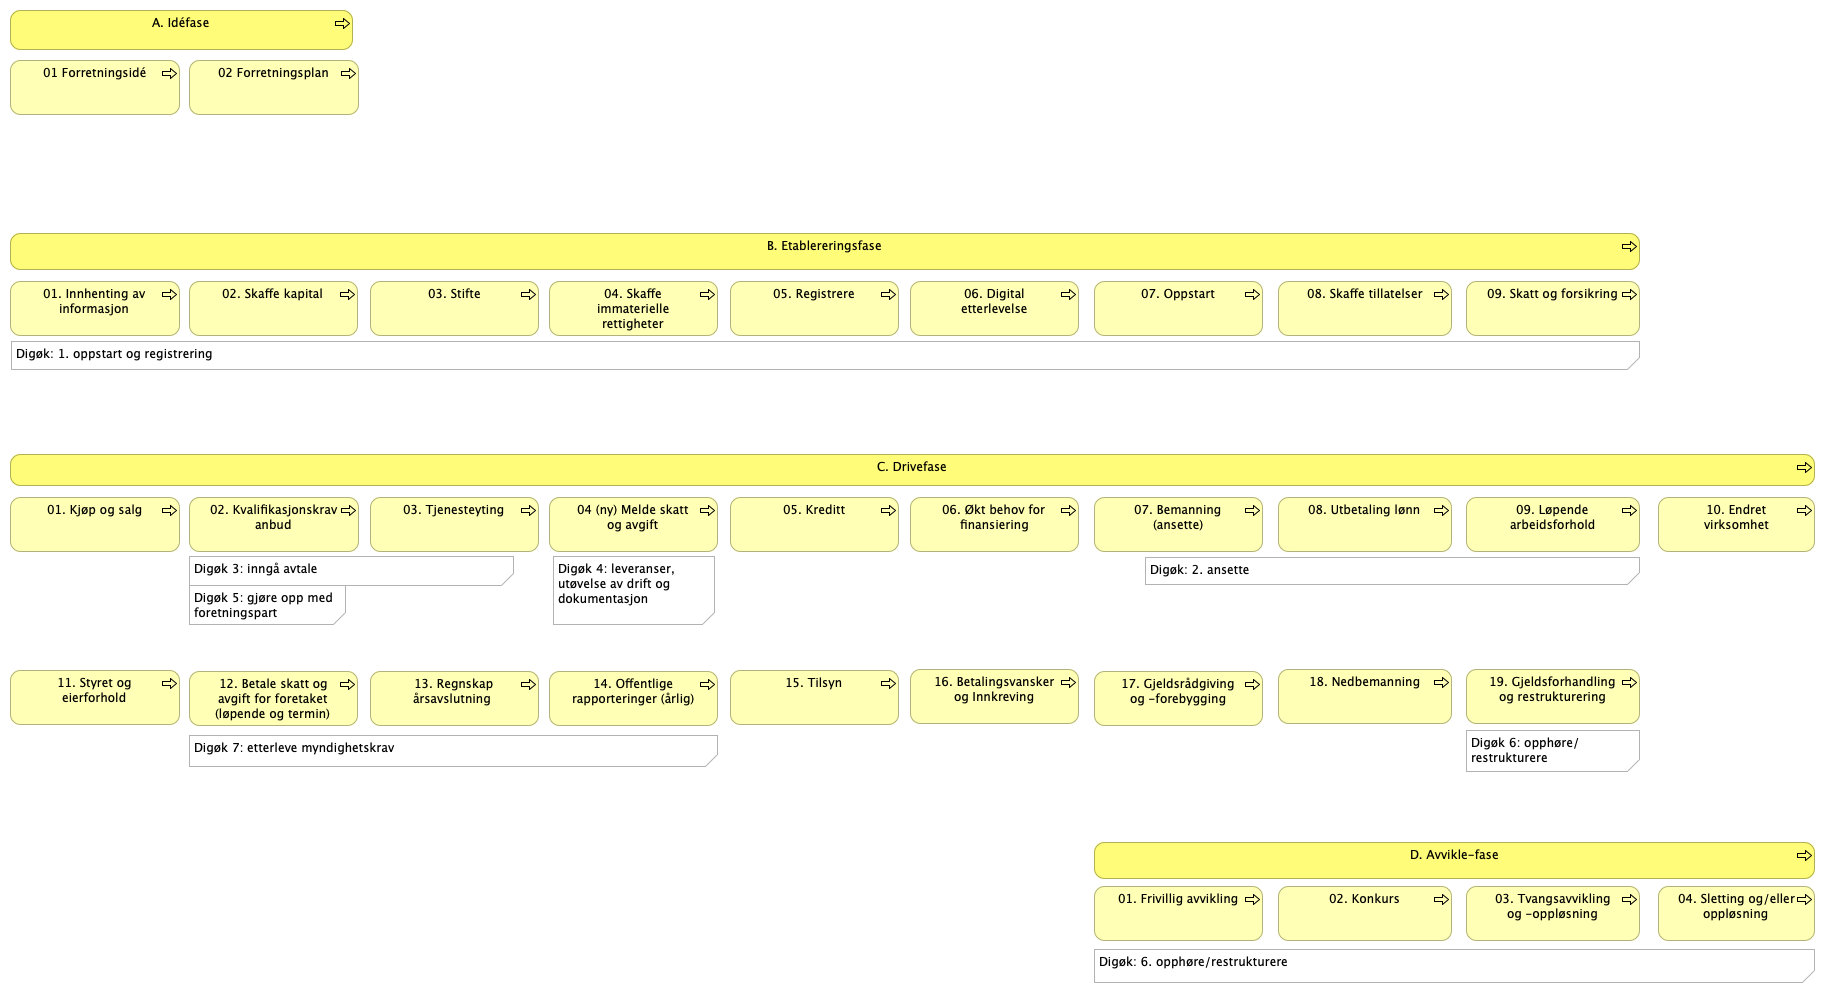
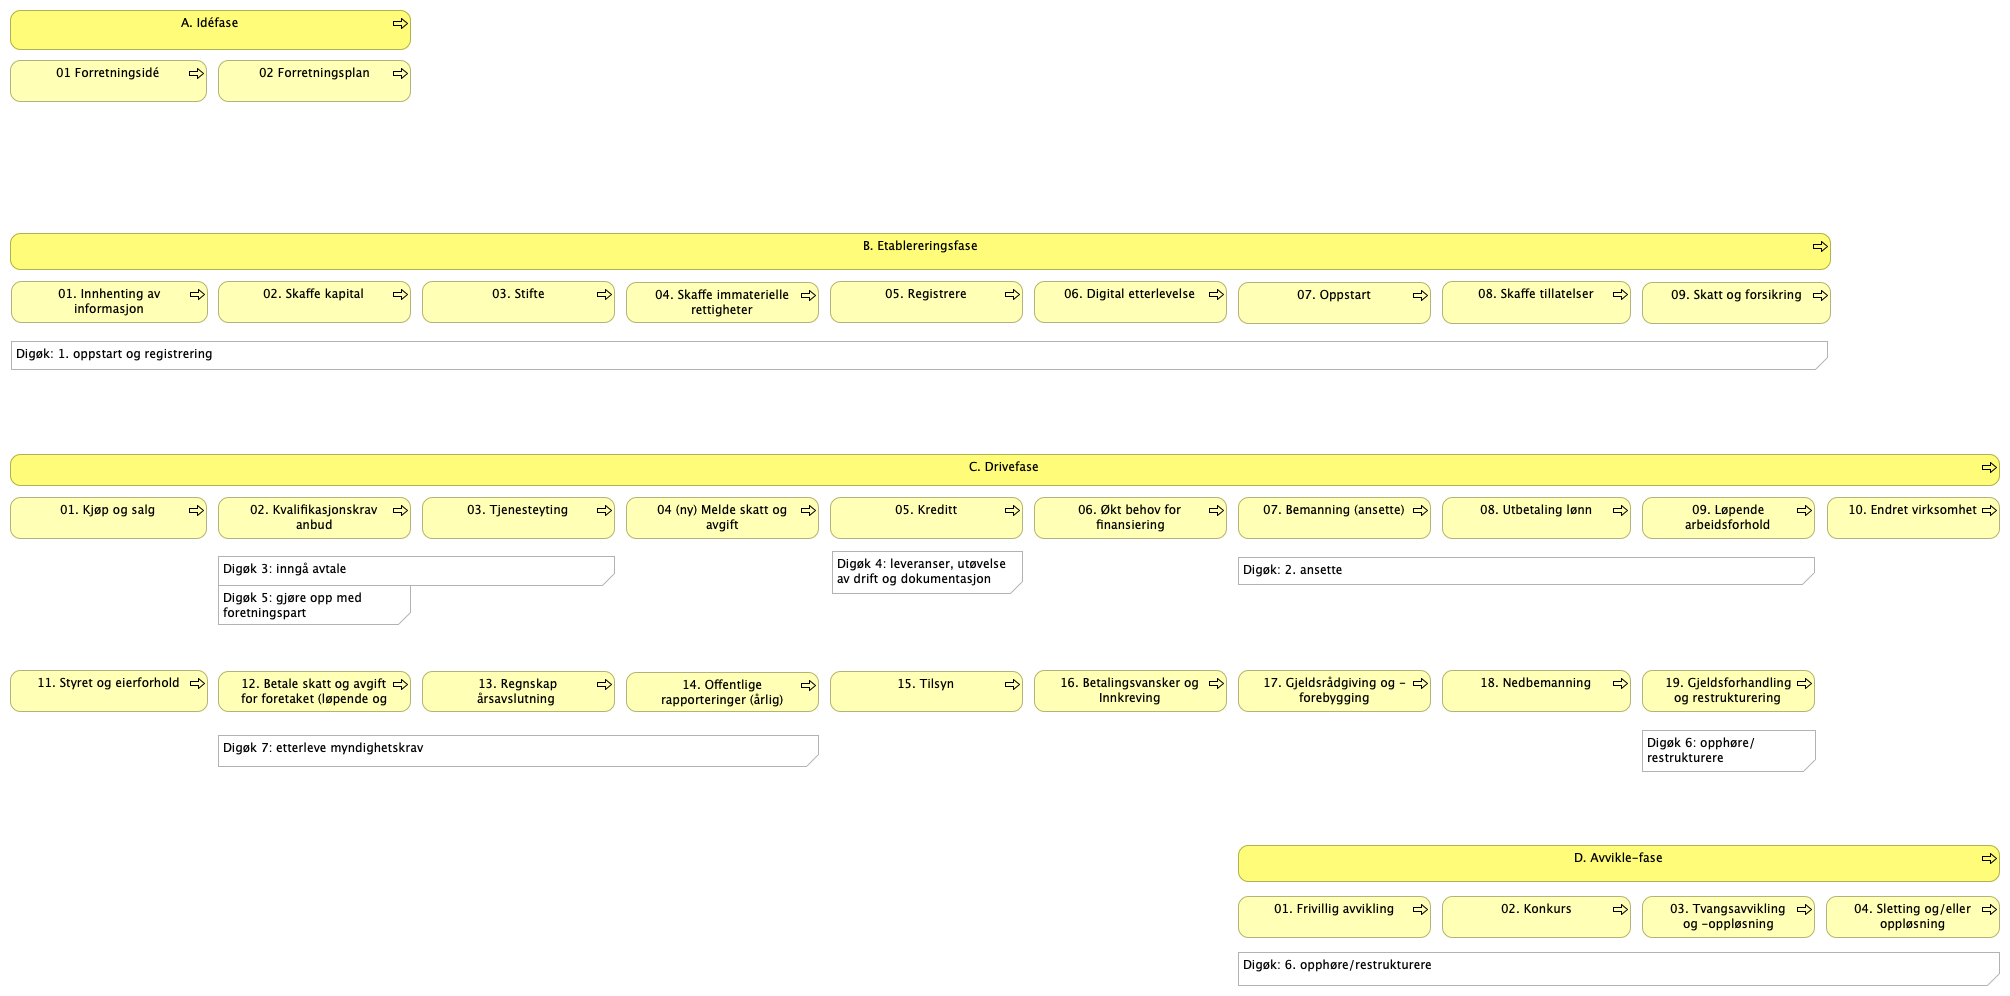
innspill fra starte og drive i Narvik

diff --git a/docs/id-0322705d/views/52bfe295-b97e-4c5e-b8cf-83361cda8c47.html b/docs/id-0322705d/views/52bfe295-b97e-4c5e-b8cf-83361cda8c47.html
@@ -27,44 +27,44 @@
 		<div class="panel-body root-panel-body">
 			<img class="diagram" src="../images/52bfe295-b97e-4c5e-b8cf-83361cda8c47.png" alt="Livshendelsen Starte og drive bedrift (user journey steg vertikalt)" usemap="#52bfe295-b97e-4c5e-b8cf-83361cda8c47map">
 			<map name="52bfe295-b97e-4c5e-b8cf-83361cda8c47map">
-						<area shape="rect" coords="10,281,180,336" href="../elements/id-083b3dd2-d55c-4f5a-9548-76d19ed866f0.html"  target="element">
-						<area shape="rect" coords="10,10,353,50" href="../elements/id-6eda348c-8aeb-427f-b6e9-52211244c8ed.html"  target="element">
-						<area shape="rect" coords="1094,842,1815,879" href="../elements/id-5c34a84a-d2c7-4e33-b891-8c106043f2ea.html"  target="element">
-						<area shape="rect" coords="10,454,1815,486" href="../elements/id-853791ec-4bd5-43f5-9a7a-6197e1851d8d.html"  target="element">
-						<area shape="rect" coords="189,60,359,115" href="../elements/id-dd6d1ca8-92ce-4a9c-b336-9996a5e63096.html"  target="element">
-						<area shape="rect" coords="189,281,358,336" href="../elements/id-de386266-2ad9-4a84-8ab0-cd6dc5b760cf.html"  target="element">
-						<area shape="rect" coords="370,281,539,336" href="../elements/id-50cd1497-82cc-4789-a4eb-c5e70a4c7d91.html"  target="element">
-						<area shape="rect" coords="730,281,899,336" href="../elements/id-53f174b4-5cfc-487b-851e-86767ab40058.html"  target="element">
-						<area shape="rect" coords="549,281,718,336" href="../elements/id-68b7a21b-4922-4e46-a6b7-58fd41f70f33.html"  target="element">
-						<area shape="rect" coords="910,281,1079,336" href="../elements/id-54d8ed00-b968-4f7d-9d4e-8b1b68ce1573.html"  target="element">
-						<area shape="rect" coords="1094,281,1263,336" href="../elements/id-c1c375c0-db12-46d7-9992-f7f2d91eecd5.html"  target="element">
-						<area shape="rect" coords="1278,281,1452,336" href="../elements/id-7c0bf0f8-9087-47b5-b1b7-20e29814c745.html"  target="element">
-						<area shape="rect" coords="1466,281,1640,336" href="../elements/id-26b21c42-9c54-4270-8d4c-72ed2d8515e8.html"  target="element">
-						<area shape="rect" coords="10,497,180,552" href="../elements/id-85fa73e0-1eee-44f4-a782-6141b154f8ab.html"  target="element">
-						<area shape="rect" coords="189,497,359,552" href="../elements/id-5dd712df-7a24-425a-a8b9-508170a8eec4.html"  target="element">
-						<area shape="rect" coords="730,497,899,552" href="../elements/id-d338f3a4-5ab9-4c6e-8a37-1e2cfe7634eb.html"  target="element">
-						<area shape="rect" coords="370,497,539,552" href="../elements/id-2cc41c01-0be4-4eb3-bd4b-a0c31ba86523.html"  target="element">
-						<area shape="rect" coords="1658,497,1815,552" href="../elements/id-ec33dd1c-653e-4bdf-a2e4-7f1bebcffd6a.html"  target="element">
-						<area shape="rect" coords="910,497,1079,552" href="../elements/id-1def7d65-fc85-4eb8-914c-c9b73d65ba23.html"  target="element">
-						<area shape="rect" coords="1094,497,1263,552" href="../elements/id-9ac9c13a-dcd7-48e0-aa8f-3cd3d7394a45.html"  target="element">
-						<area shape="rect" coords="10,670,180,725" href="../elements/id-47a79694-c1e0-4bf7-a024-98f15d69f9f8.html"  target="element">
-						<area shape="rect" coords="189,671,358,726" href="../elements/id-a8b8e395-d33c-47d0-a3e1-3d9c1c951ddf.html"  target="element">
-						<area shape="rect" coords="549,671,718,726" href="../elements/id-5d71dbe9-71cd-4d8b-a61a-ba36dc2b2b50.html"  target="element">
-						<area shape="rect" coords="910,669,1079,724" href="../elements/id-cf0a02f5-8aae-410b-8e07-e08855c9f8ba.html"  target="element">
-						<area shape="rect" coords="730,670,899,725" href="../elements/id-5a1ad4c9-e13c-483f-a5d1-1c10b4486595.html"  target="element">
-						<area shape="rect" coords="1094,671,1263,726" href="../elements/id-e38ed3b9-4892-416d-b15d-468b05945c82.html"  target="element">
-						<area shape="rect" coords="1278,669,1452,724" href="../elements/id-4eab1ca3-8bbe-4ab4-8e9d-461a86fe35e4.html"  target="element">
-						<area shape="rect" coords="1094,886,1263,941" href="../elements/id-826a278b-94d4-4e39-9350-c2d1732be5bc.html"  target="element">
-						<area shape="rect" coords="1278,886,1452,941" href="../elements/id-ff93e6bf-4703-46c2-b198-112399320693.html"  target="element">
-						<area shape="rect" coords="10,60,180,115" href="../elements/id-97d664a8-18a5-49a5-8032-46224917c4da.html"  target="element">
-						<area shape="rect" coords="10,233,1640,270" href="../elements/id-9ee94c99-0309-4976-82a6-858e3c457610.html"  target="element">
-						<area shape="rect" coords="1466,497,1640,552" href="../elements/0598c8b4-8e49-4456-a012-d3f65d1815d9.html"  target="element">
-						<area shape="rect" coords="370,671,539,726" href="../elements/ceabef67-9b54-4967-865b-7ac8107470e6.html"  target="element">
-						<area shape="rect" coords="1658,886,1815,941" href="../elements/aa3198f3-cc67-4a3f-9325-cb6e9142eb17.html"  target="element">
-						<area shape="rect" coords="1466,886,1640,941" href="../elements/6319be88-019b-4e7d-8128-74b6bb372a89.html"  target="element">
-						<area shape="rect" coords="1466,669,1640,724" href="../elements/338d48bd-ceb7-4d30-af94-78869df6bb09.html"  target="element">
-						<area shape="rect" coords="549,497,718,552" href="../elements/e66e50df-eac0-4077-a061-faf7541a9ce4.html"  target="element">
-						<area shape="rect" coords="1278,497,1452,552" href="../elements/0d6ed595-b82d-43b3-ba25-2dfe10a22d5e.html"  target="element">
+						<area shape="rect" coords="11,281,208,323" href="../elements/id-083b3dd2-d55c-4f5a-9548-76d19ed866f0.html"  target="element">
+						<area shape="rect" coords="10,10,411,50" href="../elements/id-6eda348c-8aeb-427f-b6e9-52211244c8ed.html"  target="element">
+						<area shape="rect" coords="1238,845,2000,882" href="../elements/id-5c34a84a-d2c7-4e33-b891-8c106043f2ea.html"  target="element">
+						<area shape="rect" coords="10,454,2000,486" href="../elements/id-853791ec-4bd5-43f5-9a7a-6197e1851d8d.html"  target="element">
+						<area shape="rect" coords="218,60,411,102" href="../elements/id-dd6d1ca8-92ce-4a9c-b336-9996a5e63096.html"  target="element">
+						<area shape="rect" coords="218,281,411,323" href="../elements/id-de386266-2ad9-4a84-8ab0-cd6dc5b760cf.html"  target="element">
+						<area shape="rect" coords="422,281,615,323" href="../elements/id-50cd1497-82cc-4789-a4eb-c5e70a4c7d91.html"  target="element">
+						<area shape="rect" coords="830,281,1023,323" href="../elements/id-53f174b4-5cfc-487b-851e-86767ab40058.html"  target="element">
+						<area shape="rect" coords="626,282,819,323" href="../elements/id-68b7a21b-4922-4e46-a6b7-58fd41f70f33.html"  target="element">
+						<area shape="rect" coords="1034,281,1227,323" href="../elements/id-54d8ed00-b968-4f7d-9d4e-8b1b68ce1573.html"  target="element">
+						<area shape="rect" coords="1238,282,1431,324" href="../elements/id-c1c375c0-db12-46d7-9992-f7f2d91eecd5.html"  target="element">
+						<area shape="rect" coords="1442,281,1631,324" href="../elements/id-7c0bf0f8-9087-47b5-b1b7-20e29814c745.html"  target="element">
+						<area shape="rect" coords="1642,282,1831,324" href="../elements/id-26b21c42-9c54-4270-8d4c-72ed2d8515e8.html"  target="element">
+						<area shape="rect" coords="10,497,207,539" href="../elements/id-85fa73e0-1eee-44f4-a782-6141b154f8ab.html"  target="element">
+						<area shape="rect" coords="218,497,411,539" href="../elements/id-5dd712df-7a24-425a-a8b9-508170a8eec4.html"  target="element">
+						<area shape="rect" coords="830,497,1023,539" href="../elements/id-d338f3a4-5ab9-4c6e-8a37-1e2cfe7634eb.html"  target="element">
+						<area shape="rect" coords="422,497,615,539" href="../elements/id-2cc41c01-0be4-4eb3-bd4b-a0c31ba86523.html"  target="element">
+						<area shape="rect" coords="1827,497,2000,539" href="../elements/id-ec33dd1c-653e-4bdf-a2e4-7f1bebcffd6a.html"  target="element">
+						<area shape="rect" coords="1034,497,1227,539" href="../elements/id-1def7d65-fc85-4eb8-914c-c9b73d65ba23.html"  target="element">
+						<area shape="rect" coords="1238,497,1431,539" href="../elements/id-9ac9c13a-dcd7-48e0-aa8f-3cd3d7394a45.html"  target="element">
+						<area shape="rect" coords="10,670,208,712" href="../elements/id-47a79694-c1e0-4bf7-a024-98f15d69f9f8.html"  target="element">
+						<area shape="rect" coords="218,671,411,712" href="../elements/id-a8b8e395-d33c-47d0-a3e1-3d9c1c951ddf.html"  target="element">
+						<area shape="rect" coords="626,672,819,712" href="../elements/id-5d71dbe9-71cd-4d8b-a61a-ba36dc2b2b50.html"  target="element">
+						<area shape="rect" coords="1034,670,1227,712" href="../elements/id-cf0a02f5-8aae-410b-8e07-e08855c9f8ba.html"  target="element">
+						<area shape="rect" coords="830,671,1023,712" href="../elements/id-5a1ad4c9-e13c-483f-a5d1-1c10b4486595.html"  target="element">
+						<area shape="rect" coords="1238,670,1431,712" href="../elements/id-e38ed3b9-4892-416d-b15d-468b05945c82.html"  target="element">
+						<area shape="rect" coords="1442,670,1631,712" href="../elements/id-4eab1ca3-8bbe-4ab4-8e9d-461a86fe35e4.html"  target="element">
+						<area shape="rect" coords="1238,896,1431,938" href="../elements/id-826a278b-94d4-4e39-9350-c2d1732be5bc.html"  target="element">
+						<area shape="rect" coords="1442,896,1631,938" href="../elements/id-ff93e6bf-4703-46c2-b198-112399320693.html"  target="element">
+						<area shape="rect" coords="10,60,207,102" href="../elements/id-97d664a8-18a5-49a5-8032-46224917c4da.html"  target="element">
+						<area shape="rect" coords="10,233,1831,270" href="../elements/id-9ee94c99-0309-4976-82a6-858e3c457610.html"  target="element">
+						<area shape="rect" coords="1642,497,1815,539" href="../elements/0598c8b4-8e49-4456-a012-d3f65d1815d9.html"  target="element">
+						<area shape="rect" coords="422,671,615,712" href="../elements/ceabef67-9b54-4967-865b-7ac8107470e6.html"  target="element">
+						<area shape="rect" coords="1826,896,2000,938" href="../elements/aa3198f3-cc67-4a3f-9325-cb6e9142eb17.html"  target="element">
+						<area shape="rect" coords="1642,896,1815,938" href="../elements/6319be88-019b-4e7d-8128-74b6bb372a89.html"  target="element">
+						<area shape="rect" coords="1642,670,1815,712" href="../elements/338d48bd-ceb7-4d30-af94-78869df6bb09.html"  target="element">
+						<area shape="rect" coords="626,497,819,539" href="../elements/e66e50df-eac0-4077-a061-faf7541a9ce4.html"  target="element">
+						<area shape="rect" coords="1442,497,1631,539" href="../elements/0d6ed595-b82d-43b3-ba25-2dfe10a22d5e.html"  target="element">
 
 			</map>
 			<div role="tabpanel">
